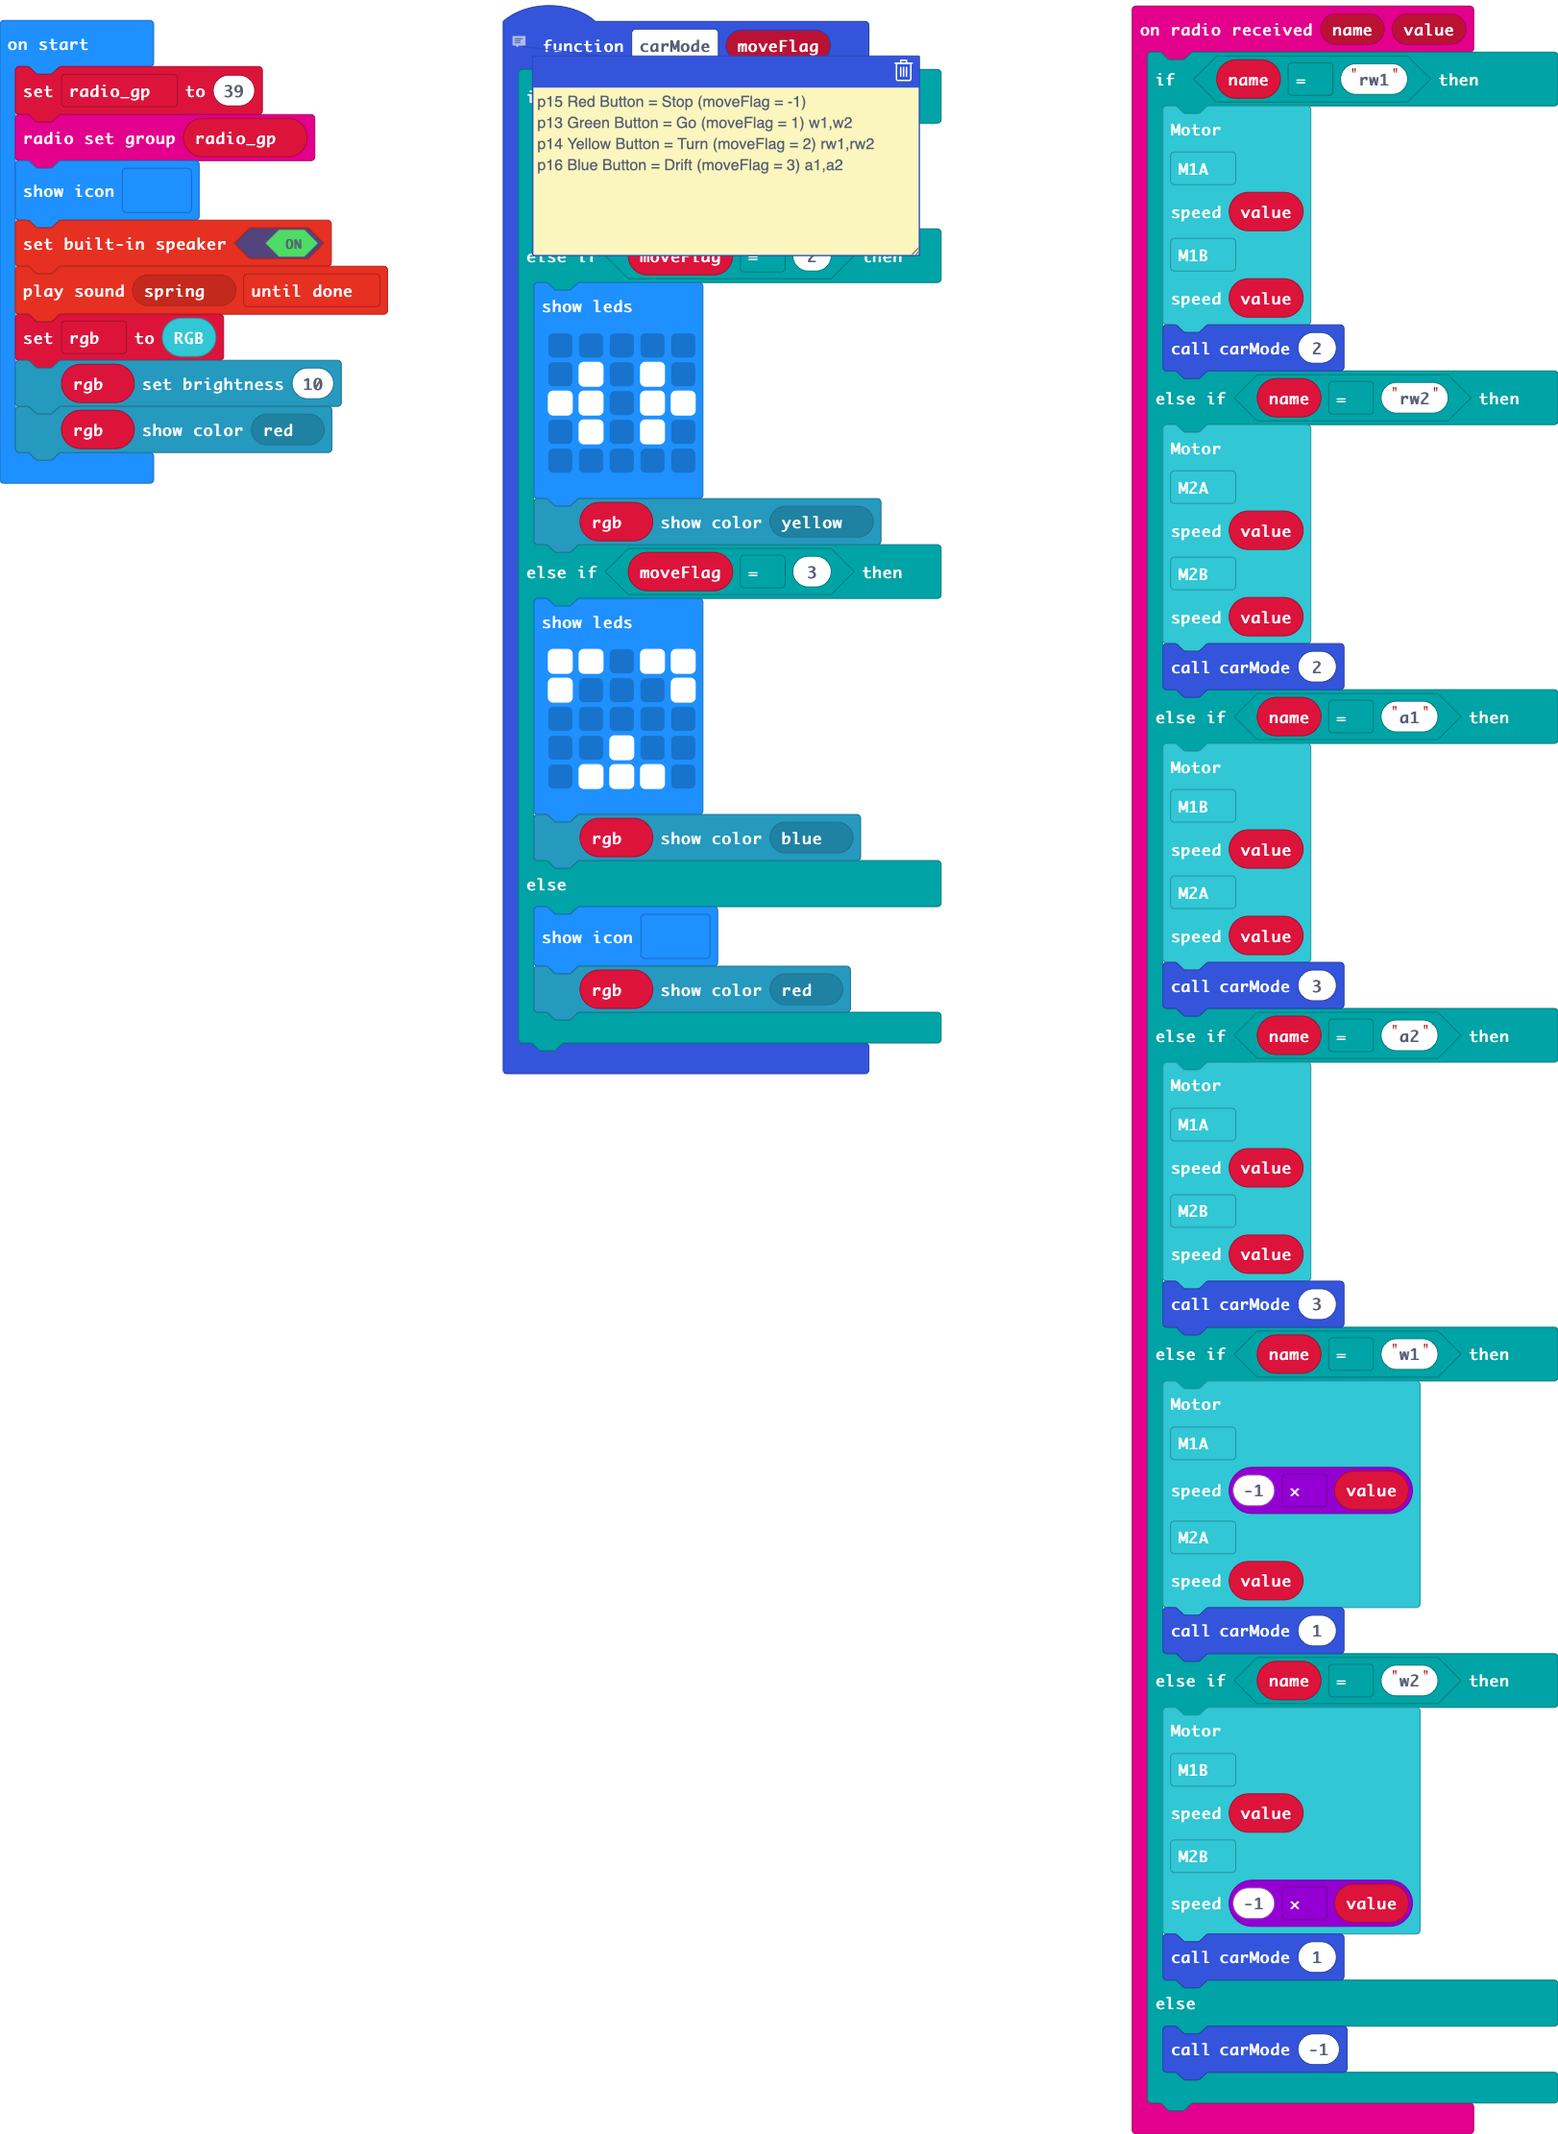
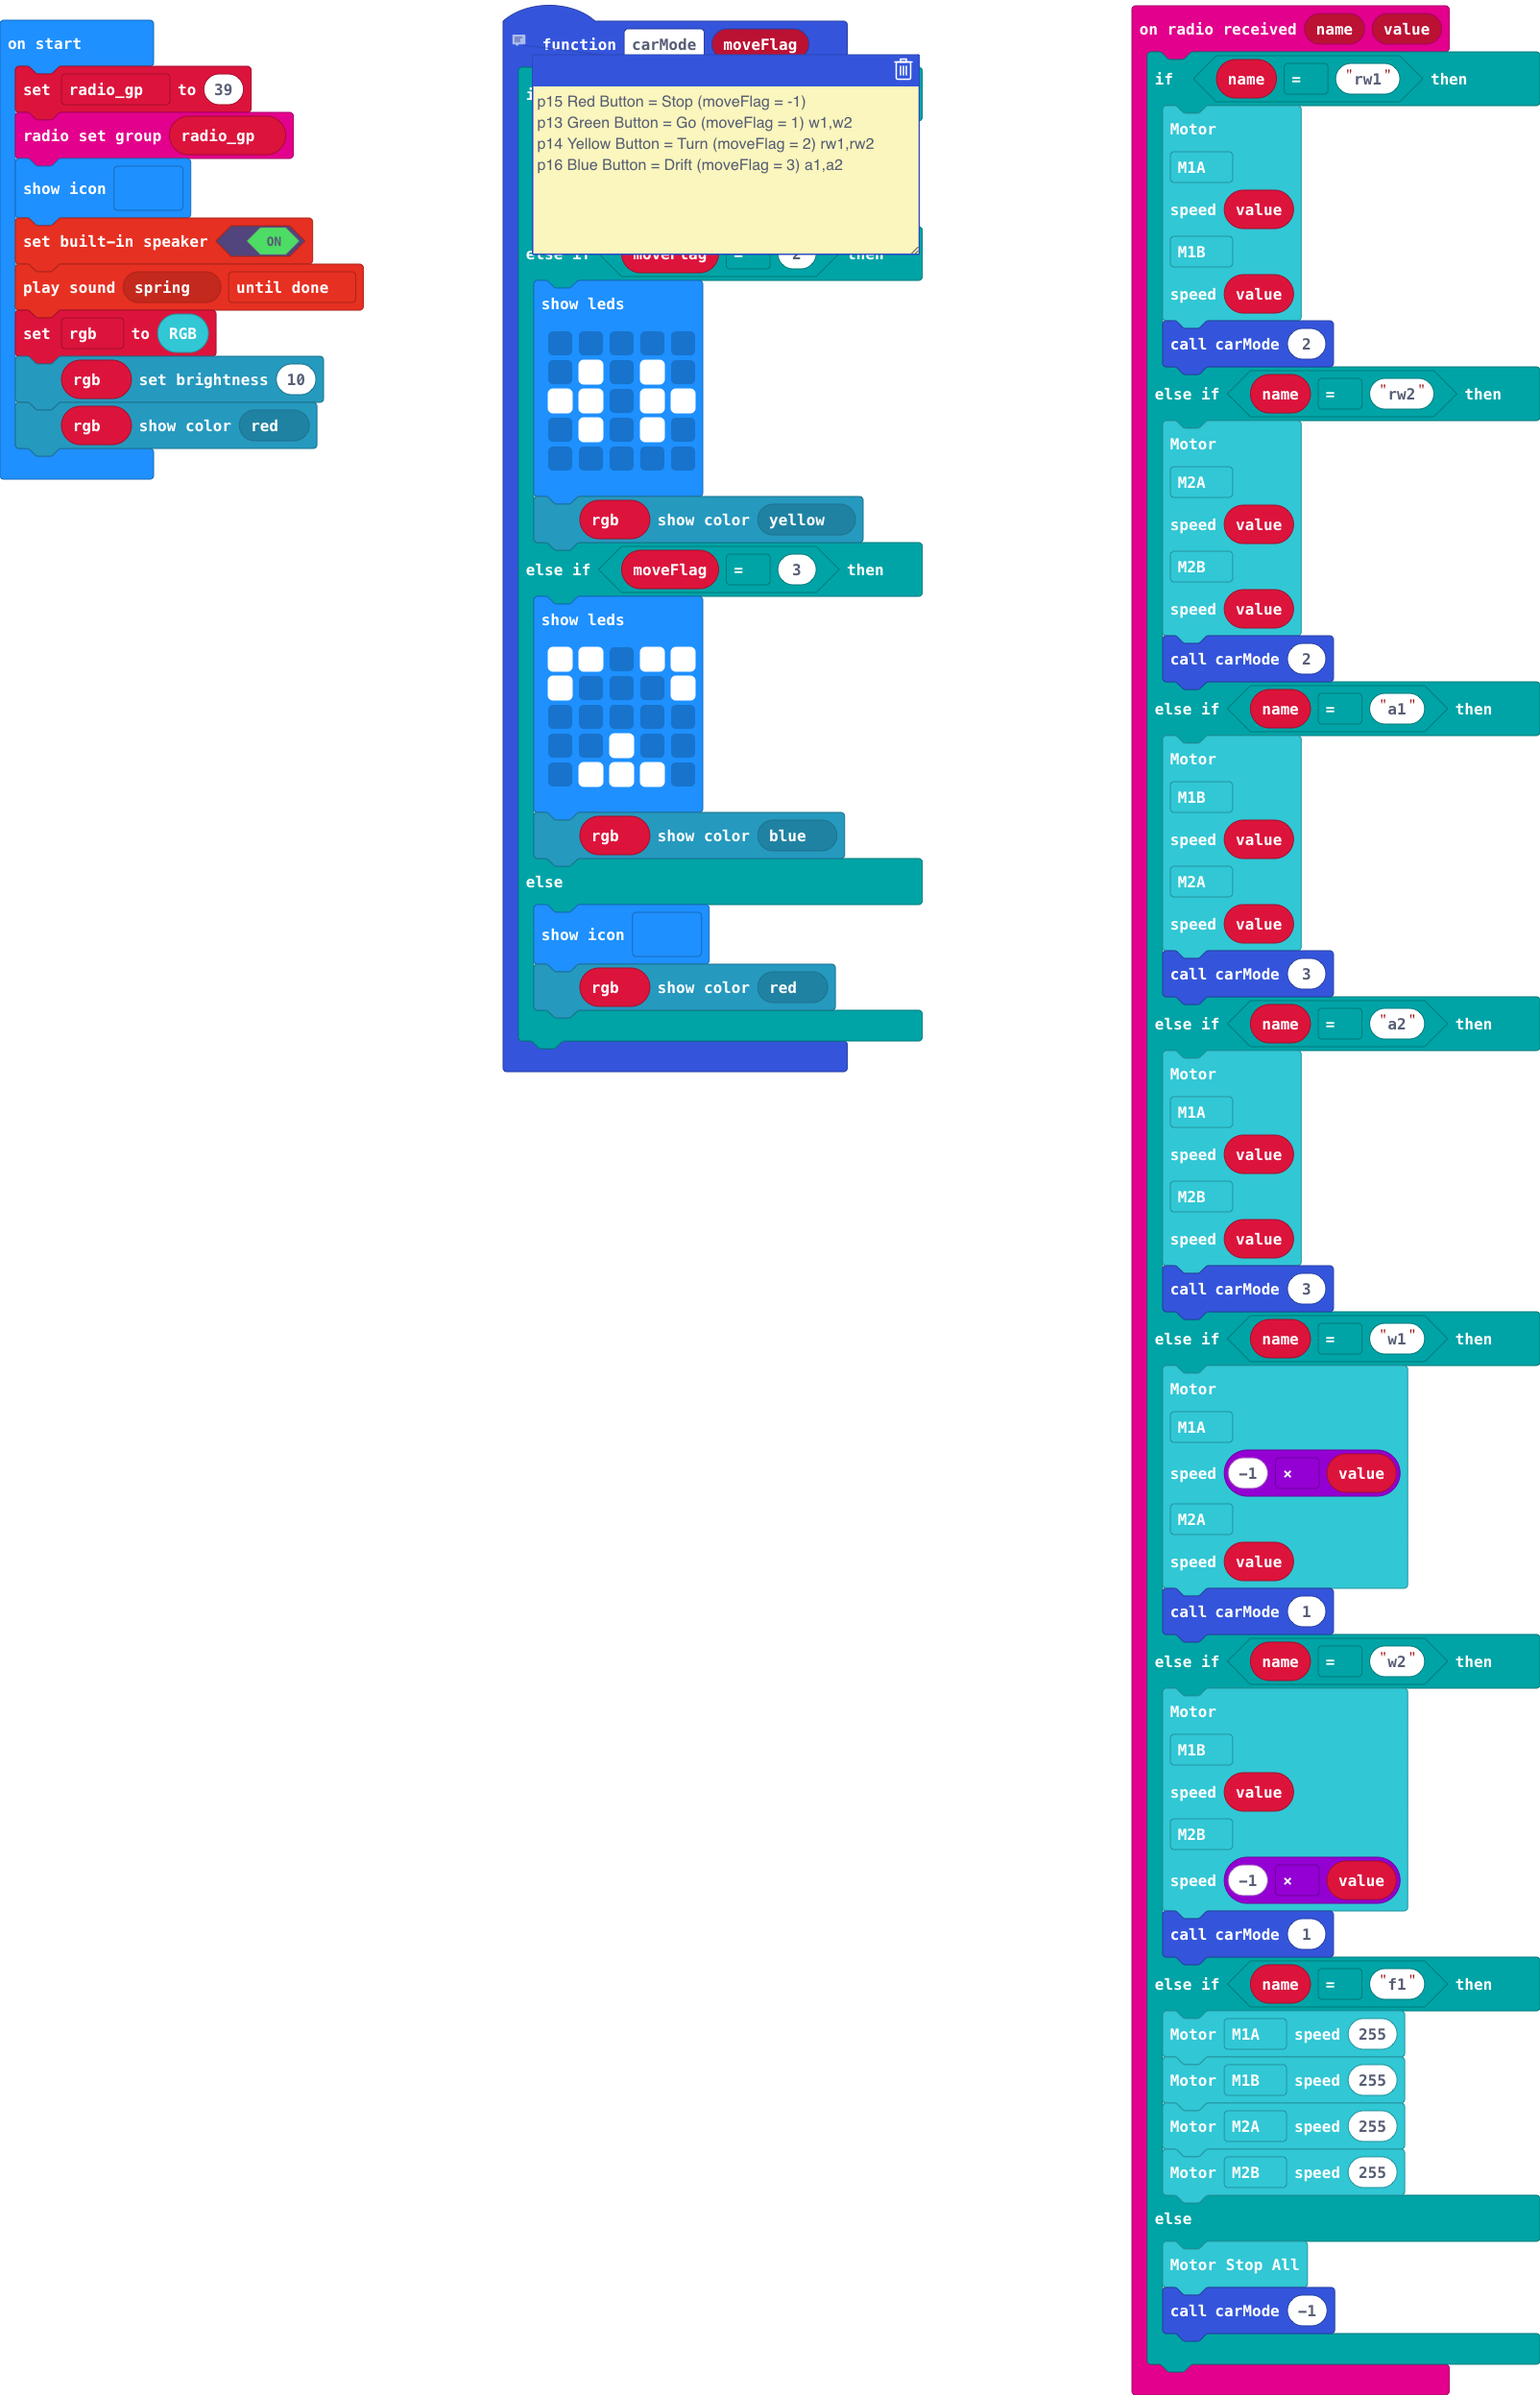
Update main.blocks, main.ts

Changed region(s): [[0.717, 0.0, 1.0, 1.0], [0.3117, 0.0, 0.6234, 0.5279], [0.0, 0.0, 0.2494, 0.2484]]

diff --git a/main.ts b/main.ts
@@ -78,7 +78,13 @@ radio.onReceivedValue(function (name, value) {
         -1 * value
         )
         carMode(1)
+    } else if (name == "f1") {
+        robotbit.MotorRun(robotbit.Motors.M1A, 255)
+        robotbit.MotorRun(robotbit.Motors.M1B, 255)
+        robotbit.MotorRun(robotbit.Motors.M2A, 255)
+        robotbit.MotorRun(robotbit.Motors.M2B, 255)
     } else {
+        robotbit.MotorStopAll()
         carMode(-1)
     }
 })
